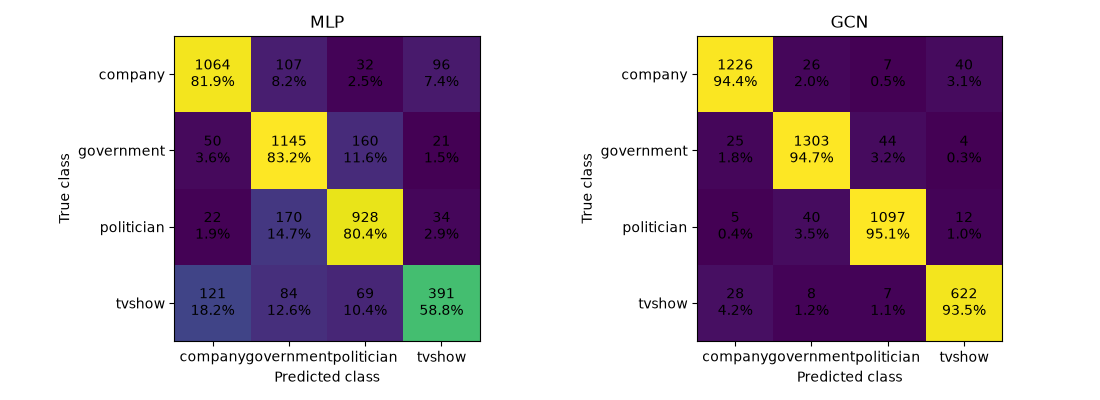
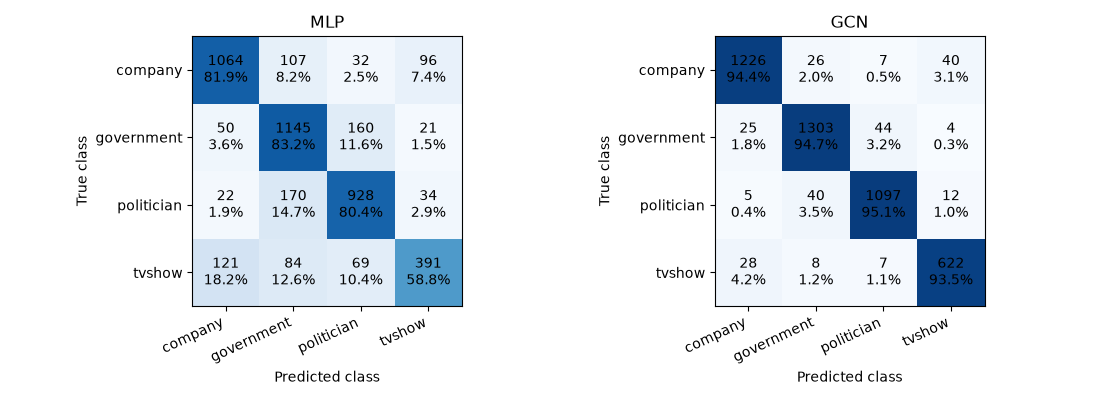
Change the color of the confusion matrix

diff --git a/recognition/GCN_Facebook_s4910971/plots/confusion_matrix.py b/recognition/GCN_Facebook_s4910971/plots/confusion_matrix.py
@@ -34,7 +34,7 @@ for ax, name in zip(axes, RUNS):
     shares = confusion_matrix(true, pred, labels=CLASSES, normalize="true")
 
     # Plot with a single yellow colormap (light to dark).
-    ax.imshow(shares, cmap="Wistia", vmin=0, vmax=1)
+    ax.imshow(shares, cmap="Blues", vmin=0, vmax=1)
 
     for i in range(len(CLASSES)):
         for j in range(len(CLASSES)):
